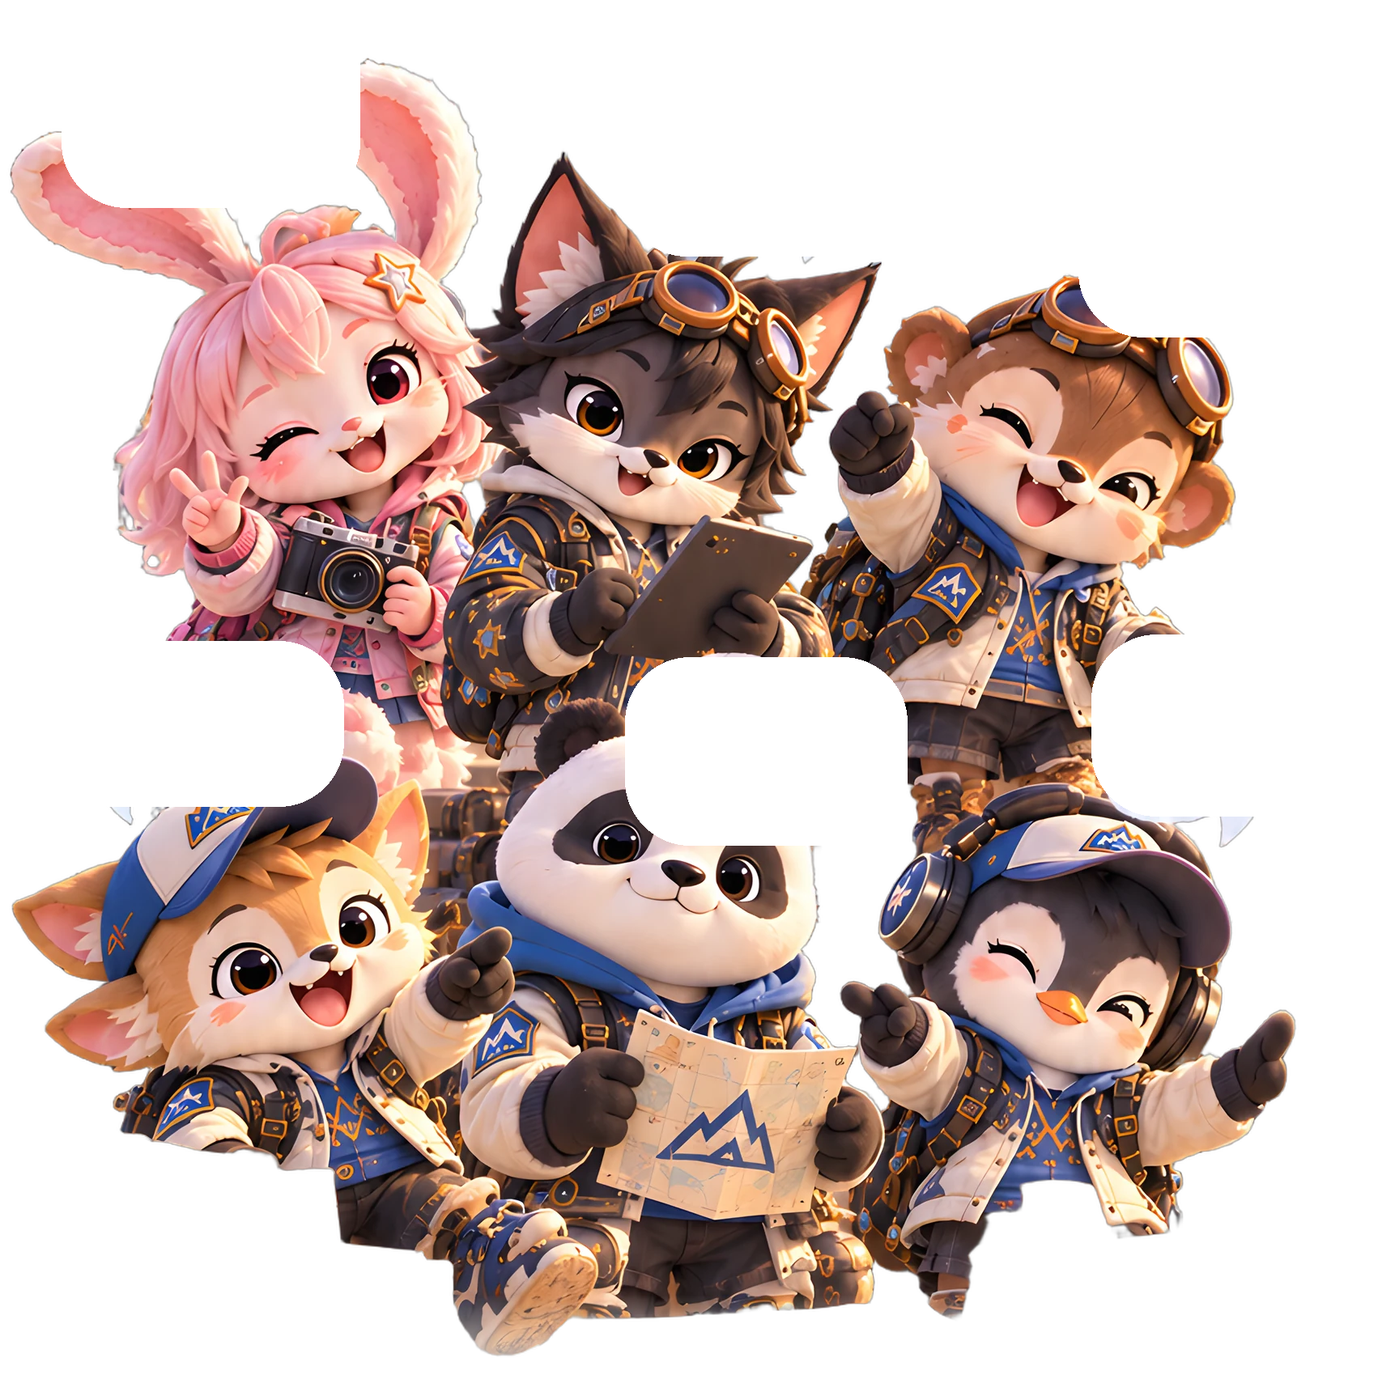
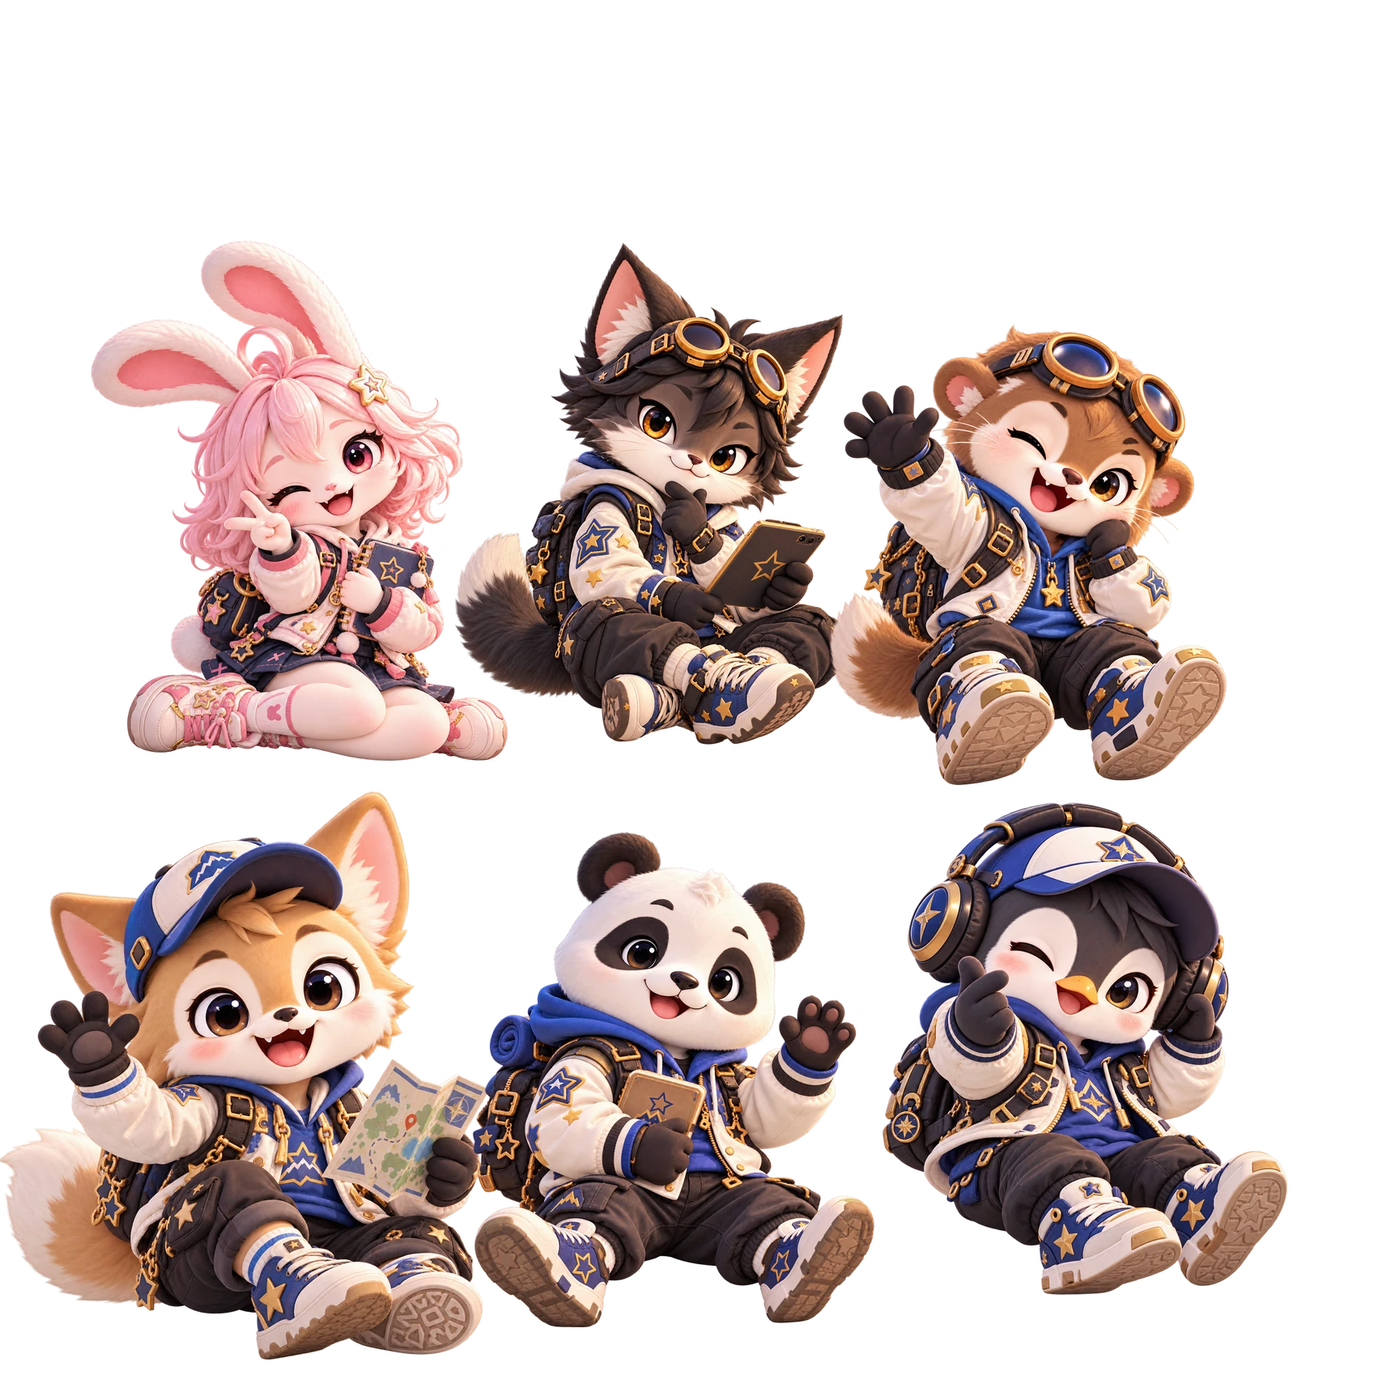
art(ob1): meet-the-crew group from Taky's sitting-pose originals
Claude-Session: https://claude.ai/code/session_01Vw2iKYy3RvksMYsFUwwpjS

diff --git a/rs/rs-app.js b/rs/rs-app.js
@@ -164,7 +164,7 @@
     try { navigator.vibrate && navigator.vibrate([180, 90, 180]); } catch (e) { /* noop */ }
   }
   /* ---------------- crew voice lines (REV06 §31-35): rs/voice/<crew>/<key>.mp3, ElevenLabs ---------------- */
-  const VTAG = '20261108d';
+  const VTAG = '20261108e';
   const REC_TXT = {
     'rec-intro': '오? 녹음할 시간이군.', 'rec-alone': '잠깐… 오늘은 나 혼자 듣기 좀 아까운데?', 'rec-fetch': '같이 들어줄 친구 좀 잡아올게!',
     'rec-back': '잡아왔다!', 'g-arrive': '나는 그냥 지나가고 있었는데?', 'rec-listen': '됐고, 이것 좀 같이 들어봐.',
@@ -365,7 +365,7 @@
     const bg = g.createLinearGradient(0, 0, 0, H); bg.addColorStop(0, '#fbf3e1'); bg.addColorStop(.6, '#f6ecd6'); bg.addColorStop(1, '#efe0bd');
     g.fillStyle = bg; g.fillRect(0, 0, W, H);
     // expedition scene band behind the headline, fading into parchment
-    const scene = await loadImg('rs/scenes/camp.webp?v=20261108d');
+    const scene = await loadImg('rs/scenes/camp.webp?v=20261108e');
     if (scene) { const sw = scene.width, sh = sw * 300 / W; g.save(); g.globalAlpha = .55; g.drawImage(scene, 0, scene.height * .42, sw, sh, 0, 0, W, 300); g.restore(); const fade = g.createLinearGradient(0, 0, 0, 300); fade.addColorStop(0, 'rgba(251,243,225,.35)'); fade.addColorStop(.55, 'rgba(251,243,225,.8)'); fade.addColorStop(1, '#fbf3e1'); g.fillStyle = fade; g.fillRect(0, 0, W, 300); }
     g.strokeStyle = '#d9a441'; g.lineWidth = 6; rr(g, 22, 22, W - 44, H - 44, 34); g.stroke(); g.strokeStyle = 'rgba(32,63,134,.35)'; g.lineWidth = 2; rr(g, 36, 36, W - 72, H - 72, 26); g.stroke();
     // theme motif (profile theme, no picker at share time)
@@ -454,7 +454,7 @@
       if (it) return `<button class="wk-cell ${it.k}" ${pos} data-act="wkCell" data-key="${key}"><b>${esc(it.t)}</b><span>${it.e}</span></button>`;
       return `<button class="wk-cell free empty" ${pos} data-act="wkCell" data-key="${key}" aria-label="${WK_DAYS[i]}요일 ${s === 'am' ? '오전' : s === 'pm' ? '오후' : '저녁'} 일정 정하기"><b>자유 시간</b><span>⛰</span></button>`;
     };
-    const week = `<div class="wk-head"><img class="wk-map" src="rs/art/home-map.webp?v=20261108d" alt=""><h1>이번 주 여정</h1><p class="wk-sub">오늘도 한 걸음, 더 멋진 너의 이야기를!</p><img class="wk-tent" src="rs/art/home-tent.webp?v=20261108d" alt=""><p class="wk-motto">Same Sky,<br>Different Stories,<br>Together.</p></div>
+    const week = `<div class="wk-head"><img class="wk-map" src="rs/art/home-map.webp?v=20261108e" alt=""><h1>이번 주 여정</h1><p class="wk-sub">오늘도 한 걸음, 더 멋진 너의 이야기를!</p><img class="wk-tent" src="rs/art/home-tent.webp?v=20261108e" alt=""><p class="wk-motto">Same Sky,<br>Different Stories,<br>Together.</p></div>
       <div class="wk-grid">
         ${ti >= 0 ? `<i class="wk-colmark" style="grid-area:1/${ti + 2}/5/${ti + 3}"></i>` : ''}
         ${days.map((d, i) => { const k = ymd(d); return `<button class="wk-day ${i === ti ? 'today' : ''}" style="grid-area:1/${i + 2}" data-act="homeDay" data-day="${k}"><b>${WK_DAYS[i]}</b><small>${i === ti ? '오늘' : `${d.getMonth() + 1}/${d.getDate()}`}</small>${recOf(k).length ? '<i class="wk-dot" aria-label="탐험 기록 있음"></i>' : ''}</button>`; }).join('')}
@@ -464,7 +464,7 @@
       <p class="wk-cheer"><span aria-hidden="true">⛰</span>지금의 너도, 멋지게 성장하고 있어!<span aria-hidden="true">🌤</span></p>
       `;
     const day = UI.homeDay || todayKey, dd = new Date(day + 'T12:00:00'), daily = recOf(day);
-    const dayBody = `<div class="wk-head"><img class="wk-map" src="rs/art/home-map.webp?v=20261108d" alt=""><h1>오늘의 탐험길</h1><p class="wk-sub">작은 계획이, 좋은 하루를 만들어요.</p><img class="wk-tent" src="rs/art/home-tent.webp?v=20261108d" alt=""><p class="wk-motto">Same Sky,<br>Different Stories,<br>Together.</p></div>
+    const dayBody = `<div class="wk-head"><img class="wk-map" src="rs/art/home-map.webp?v=20261108e" alt=""><h1>오늘의 탐험길</h1><p class="wk-sub">작은 계획이, 좋은 하루를 만들어요.</p><img class="wk-tent" src="rs/art/home-tent.webp?v=20261108e" alt=""><p class="wk-motto">Same Sky,<br>Different Stories,<br>Together.</p></div>
       <div class="journey-range"><button data-act="weekMove" data-d="-1" aria-label="이전 날">‹</button><b>${fmt(dd)} (${'일월화수목금토'[dd.getDay()]})</b><button data-act="weekMove" data-d="1" aria-label="다음 날">›</button></div>
       <div class="day-route"><div class="timeline">${daily.map(r => `<article><time>${hhmm(r.startAt)}</time><div><b>${esc(r.tasks.map(t => t.item).join(' · '))}</b><small>${mmss(r.focusMs)} 탐험 기록</small></div></article>`).join('')}<article class="current"><time>${day === todayKey ? hhmm(Date.now()) : '탐험'}</time><div><b>${planTxt ? esc(planTxt) : '새로운 탐험을 시작해요'}</b><button data-act="goSetup">시작하기 →</button></div></article></div></div>
       <div class="week-summary"><h2>이번 주 요약</h2><div><span>기록한 탐험<b>${tasks.length}개</b></span><span>실제 집중 시간<b>${(m => m > 0 && m < 60000 ? '1분 미만' : `${Math.round(m / 60000)}분`)(weekRecs.reduce((n, r) => n + r.focusMs, 0))}</b></span><span class="summary-ring" style="--rate:${rate}%"><strong>${rate}%</strong><small>완료율</small></span></div></div>
@@ -472,9 +472,9 @@
     const ek = UI.wkEdit, pick = ek ? `<div class="wk-pick" role="dialog" aria-label="일정 정하기"><div class="wk-pick-card"><h2>${WK_DAYS[+ek.split('-')[0]]}요일 ${{ am: '오전', pm: '오후', ev: '저녁' }[ek.split('-')[1]]} 일정</h2><p>매주 같은 요일에 반복돼요.</p><div class="wk-pick-grid">${WK_KINDS.map((k, i) => `<button class="wk-cell ${k.k} ${wk[ek] && wk[ek].t === k.t ? 'on' : ''}" data-act="wkSet" data-i="${i}"><b>${k.t}</b><span>${k.e}</span></button>`).join('')}</div><div class="wk-pick-row"><button class="gd-btn" data-act="wkSet" data-i="-1">비우기</button><button class="gd-btn navy" data-act="wkClose">닫기</button></div></div></div>` : '';
     return `<section class="screen wk">
       <div class="wk-bg"><img src="rs/scenes/home-header.webp" alt=""></div>
-      <header class="wk-top"><img class="wk-art" src="rs/art/home-top.webp?v=20261108d" alt="TAKY Ready &amp; Set. 좋은 친구와 어디든 멋진 이야기가 시작돼!"><button class="wk-me" data-act="nav" data-to="settings" aria-label="내 정보"><img src="${P.avatar || P.photo || g.face}" alt=""></button></header>
+      <header class="wk-top"><img class="wk-art" src="rs/art/home-top.webp?v=20261108e" alt="TAKY Ready &amp; Set. 좋은 친구와 어디든 멋진 이야기가 시작돼!"><button class="wk-me" data-act="nav" data-to="settings" aria-label="내 정보"><img src="${P.avatar || P.photo || g.face}" alt=""></button></header>
       <div class="wk-card">${UI.homeView === 'day' ? dayBody : week}</div>
-      <div class="wk-props"><img src="rs/art/home-props.webp?v=20261108d" alt=""><button class="wk-cta" data-act="homeView" data-k="${UI.homeView === 'day' ? 'week' : 'day'}">${I.cal}<span>${UI.homeView === 'day' ? '이번 주 보기' : '오늘 보기'}</span><b aria-hidden="true">›</b></button></div>
+      <div class="wk-props"><img src="rs/art/home-props.webp?v=20261108e" alt=""><button class="wk-cta" data-act="homeView" data-k="${UI.homeView === 'day' ? 'week' : 'day'}">${I.cal}<span>${UI.homeView === 'day' ? '이번 주 보기' : '오늘 보기'}</span><b aria-hidden="true">›</b></button></div>
       <nav class="journey-nav wk-nav"><button class="${UI.homeView === 'day' ? '' : 'on'}" data-act="homeView" data-k="week">${I.home}<span>이번 주 여정</span></button><button data-act="goSetup">${I.target}<span>탐험하기</span></button><button data-act="campView">${MAP_IC}<span>베이스캠프</span></button><button data-act="editGuide">${I.chat}<span>친구들</span></button><button data-act="nav" data-to="settings">${I.gear}<span>더보기</span></button></nav>
       ${pick}
     </section>`;
@@ -744,7 +744,7 @@
     if (kind === 'sky') mid = `<rect y="318" width="400" height="82" fill="#3f86c2"/><path d="M140 322 Q190 270 250 322Z" fill="#4c8a52"/>${[60, 300].map(x => `<ellipse cx="${x}" cy="120" rx="44" ry="16" fill="#fff" opacity=".85"/>`).join('')}`;
     return `<svg class="plate" viewBox="0 0 400 400" preserveAspectRatio="xMidYMid slice" aria-hidden="true"><defs><linearGradient id="sk-${kind}" x1="0" y1="0" x2="0" y2="1"><stop offset="0" stop-color="${sky[0]}"/><stop offset="1" stop-color="${sky[1]}"/></linearGradient></defs><rect width="400" height="400" fill="url(#sk-${kind})"/>${kind === 'sky' ? '' : mtn}${mid}${kind === 'base' || kind === 'camp' ? pines(kind === 'base' ? 300 : 292, '#2f5b45') : ''}</svg>`;
   }
-  const sceneBg = k => SCENE_FILES.includes(k) ? `<img class="plate" src="rs/scenes/${k}.webp?v=20261108d" alt="">` : plate(k);
+  const sceneBg = k => SCENE_FILES.includes(k) ? `<img class="plate" src="rs/scenes/${k}.webp?v=20261108e" alt="">` : plate(k);
   const gdHead = (n, t, sub) => `<header class="gd-head${n ? '' : ' no-step'}">${n ? `<span class="gd-no">${n}</span>` : ''}<h1>${t}</h1><p>${sub}</p></header>`;
   const gdDots = n => `<div class="gd-dots" aria-label="${n}/8 단계">${Array.from({length: 5}, (_, i) => `<i class="${i < Math.ceil(n * 5 / 8) ? 'on' : ''}"></i>`).join('')}</div>`;
   const arrow = '<svg viewBox="0 0 24 24" width="20" height="20" fill="none" stroke="currentColor" stroke-width="2.4" stroke-linecap="round" stroke-linejoin="round"><path d="M5 12h14M13 6l6 6-6 6"/></svg>';
@@ -753,7 +753,7 @@
   // ob1 meet screen: [core index, bubble box, tap box over the figure, name colour] in mockup pixels, mockup reading order.
   const OB1_MEET = [[1, [42, 598, 218, 724], [70, 726, 300, 1070], '#e0457b'], [2, [388, 642, 568, 754], [290, 756, 515, 1060], '#233f8f'], [3, [670, 678, 826, 804], [505, 806, 765, 1085], '#7a3d1c'],
     [0, [34, 1000, 208, 1094], [10, 1096, 290, 1440], '#233f8f'], [4, [390, 1010, 556, 1118], [292, 1120, 540, 1420], '#233f8f'], [5, [678, 996, 844, 1100], [540, 1102, 800, 1400], '#233f8f']];
-  const ART_V = '20261108d';
+  const ART_V = '20261108e';
   const OB1_PEAK = '<svg class="m1-peak" viewBox="0 0 64 30" aria-hidden="true"><path d="M2 28 L22 6 L31 16 L40 4 L62 28" fill="none" stroke="currentColor" stroke-width="3.2" stroke-linejoin="round" stroke-linecap="round"/><path d="M15 28 L26 17 L31 22" fill="none" stroke="currentColor" stroke-width="2.4" stroke-linejoin="round" stroke-linecap="round"/></svg>';
   const OB1_COMPASS = '<svg class="m1-compass" viewBox="0 0 64 64" aria-hidden="true"><circle cx="32" cy="32" r="21" fill="none" stroke="currentColor" stroke-width="3"/><path d="M32 2 L36 28 L62 32 L36 36 L32 62 L28 36 L2 32 L28 28Z" fill="currentColor"/><path d="M32 12 L34.5 29.5 L32 32 L29.5 29.5Z" fill="#fff" opacity=".9"/><circle cx="32" cy="32" r="3" fill="#fff"/></svg>';
   const OB1_LOGO = '<svg class="m1-mark" viewBox="0 0 200 128" aria-hidden="true"><path d="M58 70 L92 22 L104 38 L112 28 L142 70" fill="#1d3577" stroke="#fff" stroke-width="7" stroke-linejoin="round"/><path d="M84 34 L92 22 L100 33 L94 30 L89 36Z" fill="#fff"/><text x="100" y="118" text-anchor="middle" font-family="Jua, Pretendard Variable, sans-serif" font-size="62" font-weight="900" fill="#1d3577" stroke="#fff" stroke-width="10" paint-order="stroke" letter-spacing="-1">TAKY</text></svg>';
@@ -819,7 +819,7 @@
     const d = UI.draft; const s = UI.screen; const g = CREW.get(d.guide);
     const wrap = (bg, body) => `<section class="screen gd gd-${s}"><div class="gd-bg">${sceneBg(bg)}</div><div class="gd-card">${body}</div></section>`;
     if (s === 'ob1') {
-      // Approved mockup docs/mockups/ob1-crew-meet-20261107.png. Art: rs/scenes/ob1-meet.webp (Codex) + rs/art/ob1-crew.webp (crew cut from the mockup).
+      // Approved mockup docs/mockups/ob1-crew-meet-20261107.png. Art: rs/scenes/ob1-meet.webp (Codex) + rs/art/ob1-crew.webp (Taky sitting-pose originals 1-6, placed in the mockup hit boxes).
       // Coordinates below are mockup pixels (851x1848); --u scales them to the phone.
       const cur = UI.obSay == null ? -1 : UI.obSay;
       const at = (x0, y0, x1, y1) => `left:calc(var(--u)*${x0});top:calc(var(--u)*${y0});width:calc(var(--u)*${x1 - x0});height:calc(var(--u)*${y1 - y0})`;
@@ -856,7 +856,7 @@
     }
     if (s === 'ob3') {
       return wrap('camp', `${gdHead(3, '사진 찍기 / 사진 보관함 등록', '지금의 너를 기록해요. 탐험 여정에 특별한 추억이 될 거예요!')}
-        <div class="gd-photo pd"><img class="pd-bg" src="rs/art/photo-desk.webp?v=20261108d" alt=""><div class="pd-frame">${d.photo ? `<img src="${d.photo}" alt="내 사진">` : `<span class="pd-empty"><svg viewBox="0 0 24 24" width="30" height="30" fill="none" stroke="currentColor" stroke-width="2"><path d="M3 7h5l2-3h4l2 3h5v13H3z"/><circle cx="12" cy="13" r="4"/></svg>내 사진</span>`}</div></div>
+        <div class="gd-photo pd"><img class="pd-bg" src="rs/art/photo-desk.webp?v=20261108e" alt=""><div class="pd-frame">${d.photo ? `<img src="${d.photo}" alt="내 사진">` : `<span class="pd-empty"><svg viewBox="0 0 24 24" width="30" height="30" fill="none" stroke="currentColor" stroke-width="2"><path d="M3 7h5l2-3h4l2 3h5v13H3z"/><circle cx="12" cy="13" r="4"/></svg>내 사진</span>`}</div></div>
         <div class="gd-photo-btns"><label class="gd-btn navy"><svg viewBox="0 0 24 24" width="19" height="19" fill="none" stroke="currentColor" stroke-width="2"><path d="M3 7h5l2-3h4l2 3h5v13H3z"/><circle cx="12" cy="13" r="4"/></svg>사진 찍기<input type="file" accept="image/*" capture="user" data-photo hidden></label><label class="gd-btn">사진 보관함에서 선택<input type="file" accept="image/*" data-photo hidden></label></div><div class="photo-recent" aria-label="이 기기에서 고른 최근 사진">${Array.from({length:4},(_,i)=>(d.recentPhotos||[])[i]?`<button data-act="obRecent" data-i="${i}" aria-label="최근 사진 ${i+1} 선택"><img src="${d.recentPhotos[i]}" alt="최근 사진 ${i+1}"></button>`:`<span aria-label="빈 사진 자리">${I.book}</span>`).join('')}</div>
         <p class="gd-preview">이 사진은 탐험 여정 속에서 프로필로 사용돼요!</p><div class="gd-names"><label>닉네임 <small>공유할 때 앞</small><input class="gd-field" data-draft="nickname" value="${esc(d.nickname)}" placeholder="예: 별이" maxlength="10" autocomplete="off"></label><label>이름 <small>괄호 안</small><input class="gd-field" data-draft="name" value="${esc(d.name)}" placeholder="예: 김하늘" maxlength="10" autocomplete="off"></label></div>
         <p class="gd-preview">공유 이름: <b id="pvName">${esc(shareName({ nickname: d.nickname.trim(), name: d.name.trim() }) || '닉네임(이름)')}</b></p>
@@ -880,7 +880,7 @@
     if (s === 'ob4') {
       return wrap('camp', `${gdHead(4, '아이템 선정 + 느낌 고르기', '탐험에 꼭 필요한 아이템 하나와, 너다운 느낌 두 개를 골라보세요! 길잡이가 하나를 더해 너만의 캐릭터 세 가지를 만들어요.')}
         <p class="gd-label">탐험 아이템 <small>(하나만 선택)</small></p>
-        <div class="gd-items">${ITEMS.map(([k, n]) => `<button class="${d.item === k ? 'on' : ''}" data-act="obItem" data-k="${k}" aria-pressed="${d.item === k}"><img src="rs/items/${k}.webp?v=20261108d" alt=""><span>${n}</span></button>`).join('')}</div>
+        <div class="gd-items">${ITEMS.map(([k, n]) => `<button class="${d.item === k ? 'on' : ''}" data-act="obItem" data-k="${k}" aria-pressed="${d.item === k}"><img src="rs/items/${k}.webp?v=20261108e" alt=""><span>${n}</span></button>`).join('')}</div>
         <p class="gd-label">어떤 느낌이 더 너 같아? <small>두 개 고르면, 세 번째는 ${esc(josa(guideNick(d), '이', '가'))} 골라줘요</small></p>
         <div class="gd-vibes">${(() => { const pk = d.vibes || [], sy = vibeSys(pk); return VIBES.map(([k, n, t]) => { const i = pk.indexOf(k), sys = sy === k; return `<button class="v-${k} ${i >= 0 ? 'on' : ''} ${sys ? 'sys' : ''}" data-act="obVibe" data-k="${k}" aria-pressed="${i >= 0}" ${i < 0 && pk.length >= 2 ? 'disabled' : ''}>${i >= 0 ? `<em class="v-no">${i + 1}</em>` : sys ? `<em class="v-no g">${esc(guideNick(d))} 픽</em>` : ''}<i style="background-image:url(rs/scenes/vibe-${k}.webp)"></i><b>${n}</b><span>${t}</span></button>`; }).join(''); })()}</div>
         <p class="gd-hand">${(d.vibes || []).length === 2 ? '좋아! 이 세 가지 느낌으로 너의 모습을 만들어 볼게!' : '이제, 너만의 탐험대 캐릭터가 준비되고 있어요!'}</p>
@@ -999,7 +999,7 @@
   let scenesWarm = false;
   function preloadScenes() {
     if (scenesWarm) return; scenesWarm = true;
-    const go = () => SCENE_FILES.forEach(k => { const i = new Image(); i.decoding = 'async'; i.src = `rs/scenes/${k}.webp?v=20261108d`; (window.__rsWarm = window.__rsWarm || []).push(i); });
+    const go = () => SCENE_FILES.forEach(k => { const i = new Image(); i.decoding = 'async'; i.src = `rs/scenes/${k}.webp?v=20261108e`; (window.__rsWarm = window.__rsWarm || []).push(i); });
     (window.requestIdleCallback || (f => setTimeout(f, 400)))(go);
   }
   function render() {

diff --git a/rs/crew.js b/rs/crew.js
@@ -1,7 +1,7 @@
 /* Ready & Set — explorer crew projection (read-only consumer of TAKY shared crew board).
    Names/keywords/signature lines copied from explorer-crew-voice/personality-source-board-v1.js.
    Images: rs/crew/NN.webp (figure) / NN-face.webp — display-only resizes of characters/ui_cutouts.
-   07-24 figures (20261108d): Taky-supplied natural-pose originals (full body, transparent), trimmed + resized to 780px tall. Faces unchanged.
+   07-24 figures (20261108e): Taky-supplied natural-pose originals (full body, transparent), trimmed + resized to 780px tall. Faces unchanged.
    Voice: rs/voice/NN.mp3 — SIGNATURE clip (ElevenLabs, best of 3–12 takes, ASR-checked). Scene/recording lines: rs/voice/<id>/<key>.mp3 (script.json). */
 (function () {
   const C = [
@@ -31,7 +31,7 @@
     ['guide-24', '비비', ['유대', '즐거움', '창의', '특별함'], '함께라면 더 재미있어!']
   ].map(([id, name, keywords, signature], i) => {
     const n = String(i + 1).padStart(2, '0');
-    return { id, n, name, keywords, signature, core: i < 6, img: `rs/crew/${n}.webp?v=20261108d`, face: `rs/crew/${n}-face.webp?v=20261108d`, voice: `rs/voice/${n}.mp3?v=20261108d` };
+    return { id, n, name, keywords, signature, core: i < 6, img: `rs/crew/${n}.webp?v=20261108e`, face: `rs/crew/${n}-face.webp?v=20261108e`, voice: `rs/voice/${n}.mp3?v=20261108e` };
   });
   const byId = Object.fromEntries(C.map(c => [c.id, c]));
   window.RSCrew = { all: C, core: C.slice(0, 6), get: id => byId[id] || C[0] };

diff --git a/sw.js b/sw.js
@@ -1,8 +1,8 @@
 /* Ready & Set service worker — approved-design rebuild (2026-11-05).
    Network-first for pages so updates land; cache-first for versioned static assets.
    Removes caches from earlier builds. */
-const CACHE = 'ready-set:rebuild-20261108d';
-const CORE = ['./', './index.html', './rs/rs.css?v=20261108d', './rs/crew.js?v=20261108d', './rs/rs-taky-character-sync.js?v=20261108d', './rs/rs-app.js?v=20261108d', './rs/rs-taky-family.mjs?v=20261108d', './rs/taky-family-signin.mjs?v=20261108d', './rs/home-hero.webp', './manifest.webmanifest', './assets/icon-192.png'];
+const CACHE = 'ready-set:rebuild-20261108e';
+const CORE = ['./', './index.html', './rs/rs.css?v=20261108e', './rs/crew.js?v=20261108e', './rs/rs-taky-character-sync.js?v=20261108e', './rs/rs-app.js?v=20261108e', './rs/rs-taky-family.mjs?v=20261108e', './rs/taky-family-signin.mjs?v=20261108e', './rs/home-hero.webp', './manifest.webmanifest', './assets/icon-192.png'];
 self.addEventListener('install', e => { e.waitUntil(caches.open(CACHE).then(c => c.addAll(CORE)).then(() => self.skipWaiting())); });
 self.addEventListener('activate', e => { e.waitUntil(caches.keys().then(ks => Promise.all(ks.filter(k => k !== CACHE).map(k => caches.delete(k)))).then(() => self.clients.claim())); });
 self.addEventListener('fetch', e => {

diff --git a/index.html b/index.html
@@ -16,7 +16,7 @@
 <link rel="preconnect" href="https://fonts.googleapis.com">
 <link rel="preconnect" href="https://fonts.gstatic.com" crossorigin>
 <link rel="stylesheet" href="https://fonts.googleapis.com/css2?family=Gamja+Flower&family=Jua&family=Nanum+Pen+Script&display=swap">
-<link rel="stylesheet" href="rs/rs.css?v=20261108d">
+<link rel="stylesheet" href="rs/rs.css?v=20261108e">
 </head>
 <body>
 <div id="app" aria-live="polite"></div>
@@ -35,9 +35,9 @@
     </div>
   </div>
 </section>
-<script src="rs/crew.js?v=20261108d"></script>
-<script src="rs/rs-taky-character-sync.js?v=20261108d"></script>
-<script src="rs/rs-app.js?v=20261108d"></script>
-<script type="module" src="rs/rs-taky-family.mjs?v=20261108d"></script>
+<script src="rs/crew.js?v=20261108e"></script>
+<script src="rs/rs-taky-character-sync.js?v=20261108e"></script>
+<script src="rs/rs-app.js?v=20261108e"></script>
+<script type="module" src="rs/rs-taky-family.mjs?v=20261108e"></script>
 </body>
 </html>

diff --git a/rs/rs.css b/rs/rs.css
@@ -826,7 +826,7 @@ button:focus-visible,label:focus-within { outline:3px solid #d9a441; outline-off
 .gd-ob1.m1 { padding: 0 !important; background: #2a3a5c; display: block; }
 .m1 { --fw: min(100vw, calc(100dvh * 851 / 1848)); --u: calc(var(--fw) / 851); --m1-navy: #1c2f6e; }
 .m1-blur { position: absolute; inset: 0; overflow: hidden; }
-.m1-blur::before { content: ''; position: absolute; inset: -30px; background: url(scenes/ob1-meet.webp?v=20261108d) center / cover; filter: blur(14px) brightness(.9); }
+.m1-blur::before { content: ''; position: absolute; inset: -30px; background: url(scenes/ob1-meet.webp?v=20261108e) center / cover; filter: blur(14px) brightness(.9); }
 .m1-frame { position: absolute; left: 50%; top: 50%; width: var(--fw); height: calc(var(--fw) * 1848 / 851); transform: translate(-50%, -50%); overflow: hidden; }
 .m1-frame > * { position: absolute; margin: 0; }
 .m1-bg { inset: 0; width: 100%; height: 100%; object-fit: cover; }
